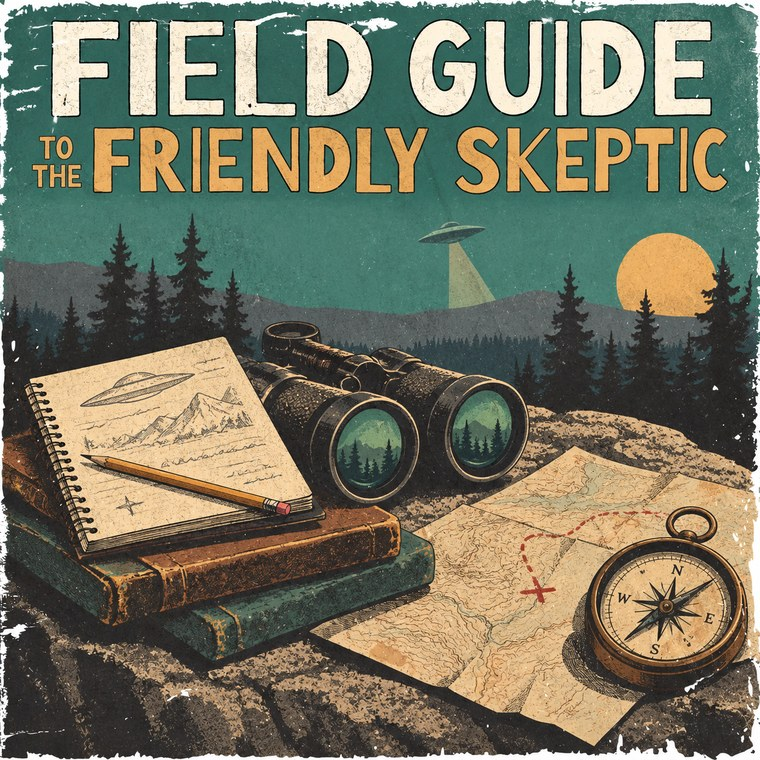
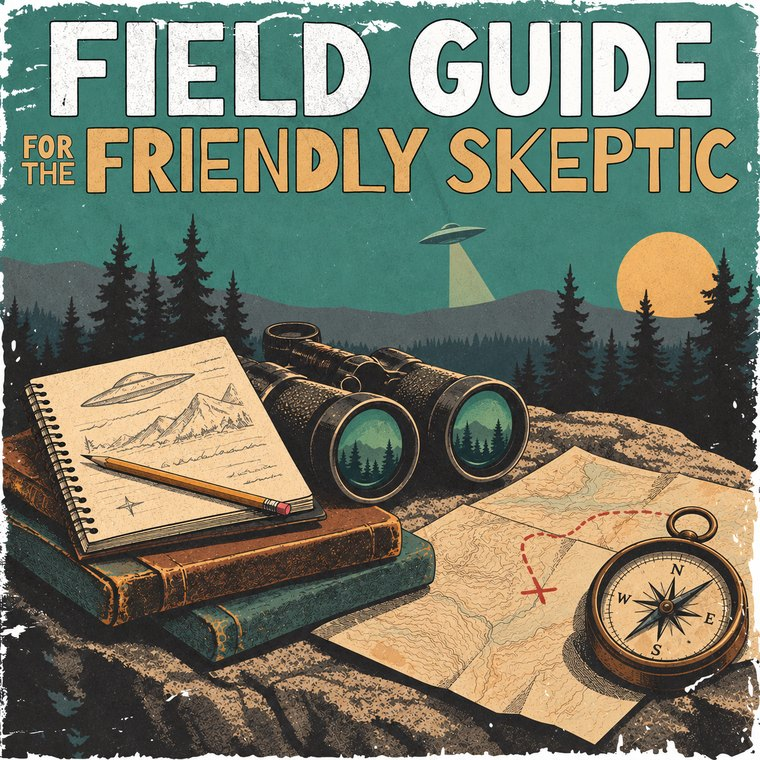
Swap in the new Field Guide cover art on the landing page
Replace field-guide-cover.jpg with the new titled cover (resized to
760x760 like the podcast cover) and update its alt text. The Field
Guide's share image points at the same file, so it updates too.

Claude-Session: https://claude.ai/code/session_01UvdizMyJDvMu5yyeSfkGL1

diff --git a/index.html b/index.html
@@ -104,7 +104,7 @@ footer a{color:var(--cream)}
 
     <a class="door" href="/guide/">
       <div class="art">
-        <img src="field-guide-cover.jpg" alt="Field guide cover: a notebook with a saucer sketch, binoculars, a trail map and a compass on a rock at dusk, with a flying saucer over the pines." width="760" height="760" loading="lazy">
+        <img src="field-guide-cover.jpg" alt="Field Guide for the Friendly Skeptic cover: a notebook with a saucer sketch, binoculars, old books, a trail map and a compass on a rock at dusk, with a flying saucer beaming down over the pines." width="760" height="760" loading="lazy">
       </div>
       <div class="body">
         <span class="kind">The field guide</span>
